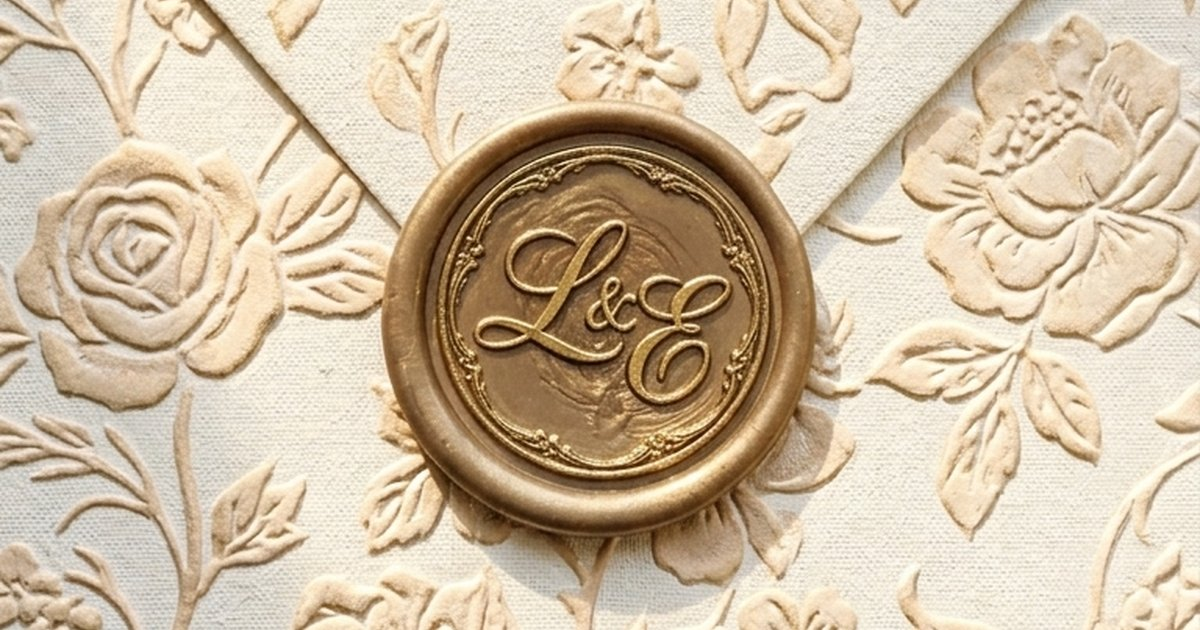
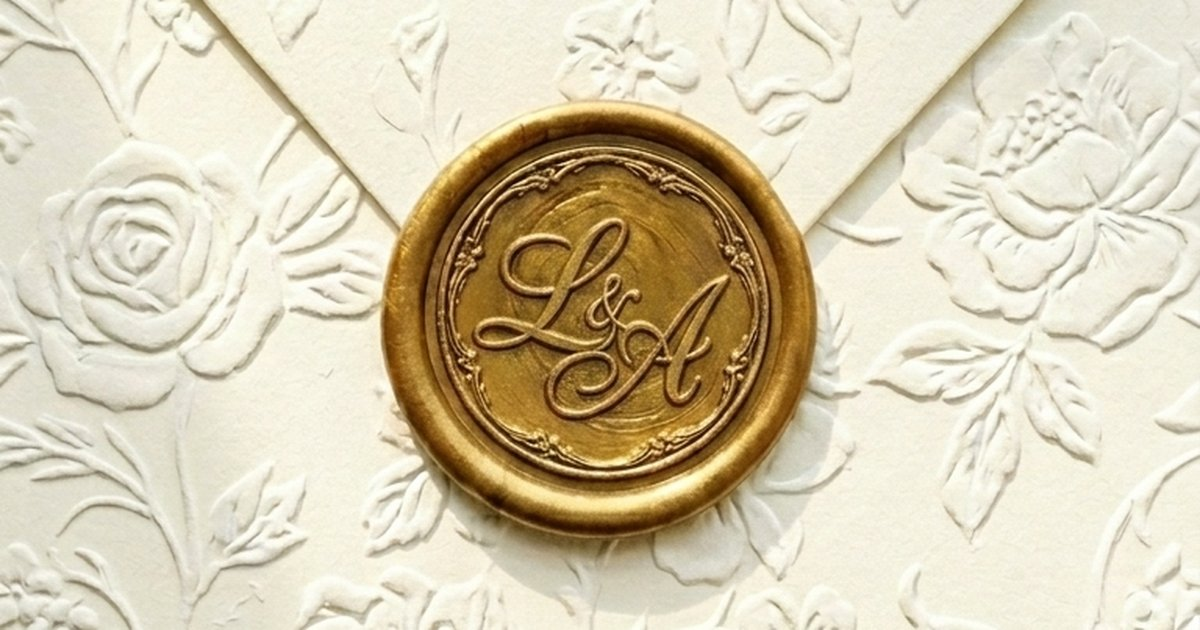
hero: quitar José del nombre, actualizar sobre + OG image
- Hero: "José Antonio" → "Antonio"
- sobre.png: nueva imagen con sello L&A dorado
- sobre-apertura.mp4: nuevo video de apertura
- og-image.jpg: center-crop 1200×630 del sobre con sello

diff --git a/index.html b/index.html
@@ -554,7 +554,7 @@ body{background:var(--bg);color:var(--text);font-family:'Cormorant Garamond',ser
     <div class="hero-content">
       <span class="hero-bride rv">Liliana</span>
       <span class="hero-amp rv">&amp;</span>
-      <span class="hero-groom rv">José Antonio</span>
+      <span class="hero-groom rv">Antonio</span>
     </div>
     <div class="scroll-hint" id="scrollHint">
       <div class="scroll-hint-line"></div>